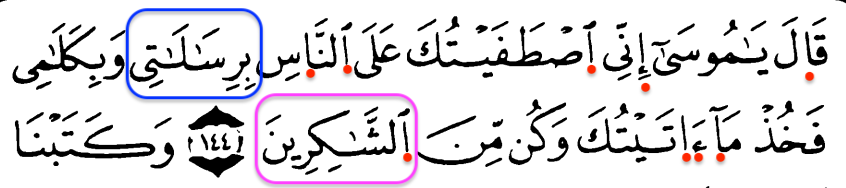
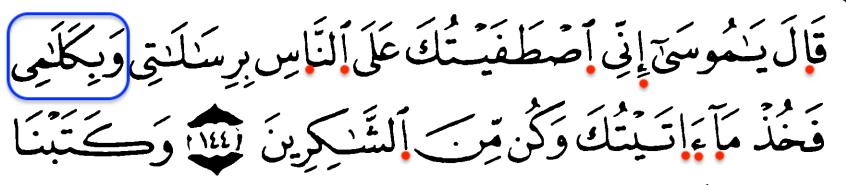
Fix VEBIKELAMY words with the help of 7:144

diff --git a/docs/STEPS.md b/docs/STEPS.md
@@ -5567,3 +5567,14 @@
 
 ---
 ---
+
+192. VEBIKELAMY
+```
+وبكلامي -> وبكلمي
+```
+* 7:144
+---
+![7:144](../pictures/7-144.png)
+
+---
+---
